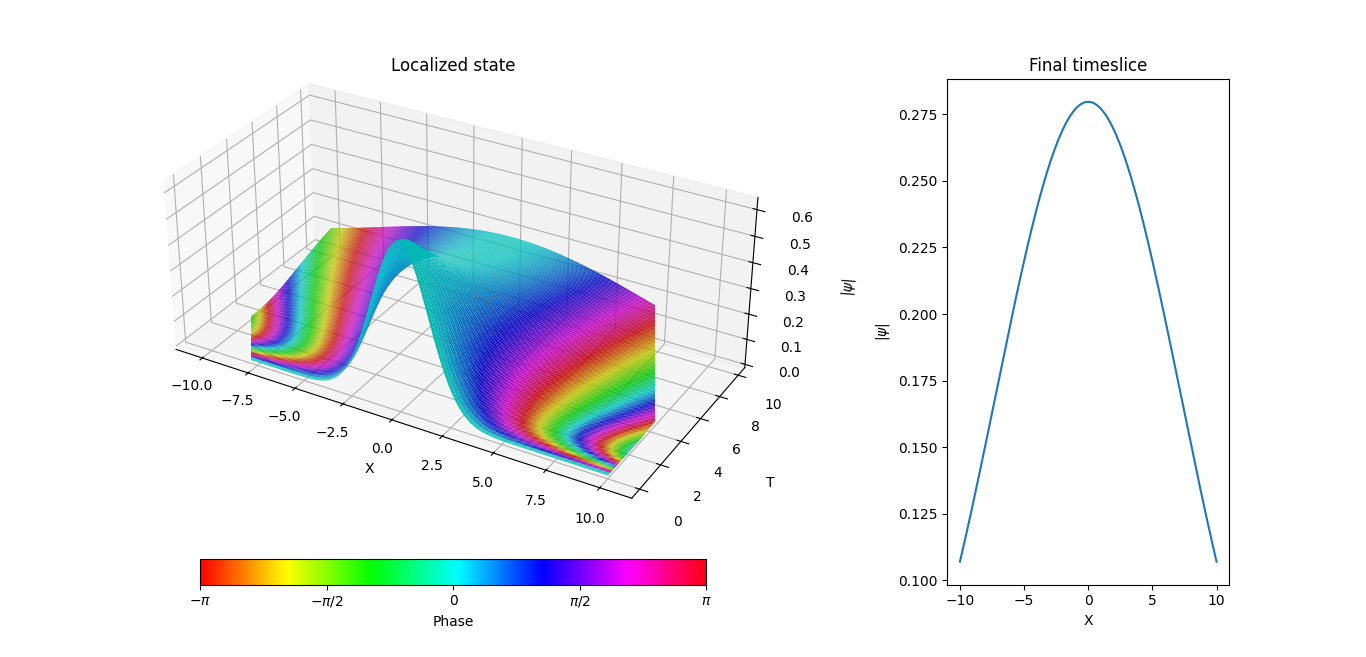
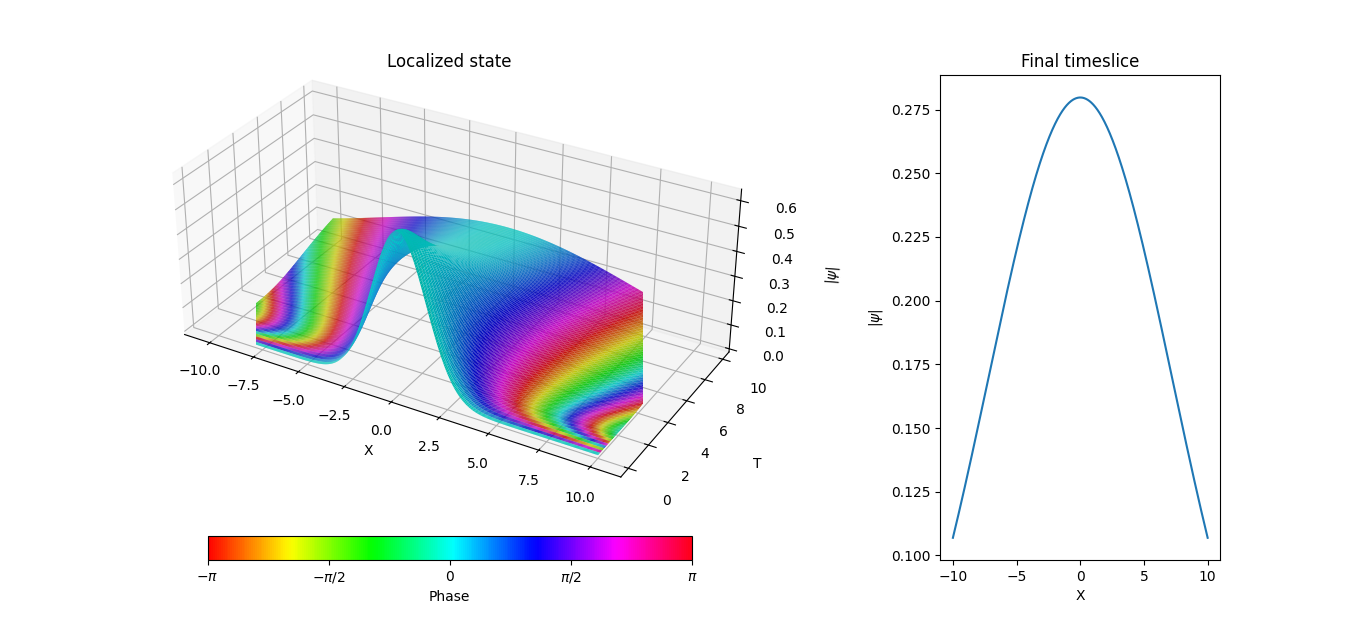
Changed parameters and other stuff

diff --git a/plot_delta.py b/plot_delta.py
@@ -1,28 +1,29 @@
 import numpy as np
 import matplotlib.pyplot as plt
 
-m = 10
-d = 1
+m = 1
+d = 5
 
 t_samples = 1000
-t = np.linspace(0.1, 10, t_samples)
-k = np.linspace(10, 20, 5)
+t = np.linspace(0.1, 3, t_samples)
+k = np.linspace(0.1, 2, 4)
 
 print('angle between first maxima and center = ' + str(((2*np.pi)/(k*d))))
+print(np.abs((((2*np.pi)/(k*d)+1)%2)-1))
 
 def delta_S(t, k):
     v_g = k/m
     omega = k**2/(2*m)
     
-    #return ((2*np.pi)/(m*d))*t
-    return np.tan(np.arcsin((2*np.pi)/(k*d)))*v_g*t
+    return ((2*np.pi)/(m*d))*t
+    #return np.tan(np.arcsin(np.abs((((2*np.pi)/(k*d)+1)%2)-1)))*v_g*t
 
 def delta_KG(t, k):
     omega = np.sqrt(k**2 + m**2)
     v_g = k/omega
     
-    return np.tan(np.arcsin((2*np.pi)/(k*d)))*v_g*t
-    #return ((2*np.pi)/d)*(t/omega)
+    #return np.tan(np.arcsin(np.abs((((2*np.pi)/(k*d)+1)%2)-1)))*v_g*t
+    return ((2*np.pi)/d)*(t/omega)
 
 def delta_Q(t, k):
     #q-metric dispersion relation
@@ -35,8 +36,8 @@ def delta_Q(t, k):
     squareroot = np.emath.sqrt(-g**2 + 4*T_squared**(-1)*(T_squared**(-1)*k**2 + m**2))
     v_g = (2*T_squared**(-2)*k)/squareroot
     
-    #return ((4*np.pi)/d)*((T_squared**(-2))/(squareroot))*t
-    return np.tan(np.arcsin((2*np.pi)/(k*d)))*v_g*t
+    return ((4*np.pi)/d)*((T_squared**(-2))/(squareroot))*t
+    #return np.tan(np.arcsin(np.abs((((2*np.pi)/(k*d)+1)%2)-1)))*v_g*t
 
 def delta_Q_lowk(t, k):
     dim = 4
@@ -48,28 +49,28 @@ def delta_Q_lowk(t, k):
     squareroot = np.emath.sqrt(-g**2 + 4*T_squared**(-1)*m**2)
     v_g = (2*T_squared**(-2)*k)/squareroot
     
-    #return (4*np.pi*T_squared**(-2)*t)/(d*squareroot)
-    return np.tan(np.arcsin((2*np.pi)/(k*d)))*v_g*t
+    return (4*np.pi*T_squared**(-2)*t)/(d*squareroot)
+    #return np.tan(np.arcsin(np.abs((((2*np.pi)/(k*d)+1)%2)-1)))*v_g*t
 
-fig, axs = plt.subplots(4)
+fig, axs = plt.subplots(2)
 fig.suptitle('Fringe maxima separations')
-axs[0].set_title('Schr.', rotation='vertical', x=-0.07, y=0)
-axs[1].set_title('low k Q', rotation='vertical', x=-0.07, y=0)
-axs[2].set_title('KG', rotation='vertical', x=-0.07, y=0)
-axs[3].set_title('Q', rotation='vertical', x=-0.07, y=0)
+#axs[0].set_title('Schr.', rotation='vertical', x=-0.07, y=0)
+#axs[1].set_title('low k Q', rotation='vertical', x=-0.07, y=0)
+axs[0].set_title('KG', rotation='vertical', x=-0.07, y=0)
+axs[1].set_title('Q', rotation='vertical', x=-0.07, y=0)
 
 for ks in k:
-    delta_S_values = [delta_S(time, ks) for time in t]
-    axs[0].plot(t, delta_S_values)
+    #delta_S_values = [delta_S(time, ks) for time in t]
+    #axs[0].plot(t, delta_S_values)
 
-    delta_Q_values = [delta_Q_lowk(time, ks) for time in t]
-    axs[1].plot(t, np.real(delta_Q_values))
+    #delta_Q_values = [delta_Q_lowk(time, ks) for time in t]
+    #axs[1].plot(t, np.real(delta_Q_values))
 
     delta_KG_values = [delta_KG(time, ks) for time in t]
-    axs[2].plot(t, delta_KG_values, label='k=%.2f'%ks)
+    axs[0].plot(t, delta_KG_values, label='k=%.2f'%ks)
 
     delta_Q_values = [delta_Q(time, ks) for time in t]
-    axs[3].plot(t, np.real(delta_Q_values))
+    axs[1].plot(t, np.real(delta_Q_values))
 
-axs[2].legend()
+axs[0].legend()
 plt.show()

diff --git a/FT_deloc_alltrapz.py b/FT_deloc_alltrapz.py
@@ -13,22 +13,22 @@ def complex_trapz(func):
     return real_integral + 1j*imag_integral
 
 #Type of dispersion relation tu use for time evolution
-DR = 'Q'
+DR = 'SCHQ'
 
 #Width of initial state gaussian
 a = 1
 #mass
-m = 10
+m = 1
 #measurement induced phase, loosely corresponds to the speed of ricombination IMPORTANT!
-phi_m = -4
+phi_m = -2
 #time of flight before delocalization
-t_flight1 = 1
+t_flight1 = 10
 #Energy of initial state
 E=1/(2*m*a**2)
 #phase accumulated during first localized evolution
 phi_1 = E*t_flight1/4
 #ratio of sigma/sigma_d
-ratio = 10
+ratio = 50
 #width at end of first flight
 sigma_squared = a**2*(1+(E*t_flight1)**2)
 #half distance between slits, we set it to half the width of the initial packets, hence the distance is equal to the width of the packets
@@ -84,7 +84,7 @@ def IFT_evo(ftrans, k, x_values, t):
         xi = (L_0/gl)**2
         T_squared = 1 + xi
         g = -dim*T_squared**(-1)*(L_0**2/gl**3)
-        omega = (T_squared**(-2)/(np.emath.sqrt(-g**2+4*T_squared**(-1)*m**2)))*k**2
+        omega = 0.5*(-1j*g + np.emath.sqrt(-g**2+4*T_squared**(-1)*m**2)) + (T_squared**(-2)/(np.emath.sqrt(-g**2+4*T_squared**(-1)*m**2)))*k**2
 
     ift = []
     for x in x_values:
@@ -98,8 +98,8 @@ def IFT_evo(ftrans, k, x_values, t):
 #number of points for integration and plotting
 samples = 10000
 #extent of integration and plotting, enlarge if ripple effects due to boundaries arise
-k_extent = 50
-x_extent = 4
+k_extent = 30
+x_extent = 5
 
 x = np.linspace(-x_extent, x_extent, samples)
 k = np.linspace(-k_extent, k_extent, samples)
@@ -111,16 +111,18 @@ IS = [integrand(pos) for pos in x]
 psi_k = FT(x, k)
 
 #Define plot, plot FT
-fig0, ax0 = plt.subplots()
-fig1, ax1 = plt.subplots()
+fig1, ax1 = plt.subplots(1,2)
 fig2, ax2 = plt.subplots()
 
-ax0.plot(x, np.abs(IS))
+ax1[0].plot(x, np.abs(IS))
+ax1[0].set_title('Position space')
+ax1[0].set_xlabel('x')
+ax1[0].set_ylabel('$\psi (x)$')
 
-ax1.plot(k, np.abs(psi_k))
-ax1.set_title('Momentum space')
-ax1.set_xlabel('k')
-ax1.set_ylabel('$\psi (k)$')
+ax1[1].plot(k, np.abs(psi_k))
+ax1[1].set_title('Momentum space')
+ax1[1].set_xlabel('k')
+ax1[1].set_ylabel('$\psi (k)$')
 
 #Time of flight after delocalization
 t_flight2 = 1.5

diff --git a/plot_q_dispersion_relation.py b/plot_q_dispersion_relation.py
@@ -1,11 +1,11 @@
 import numpy as np
 import matplotlib.pyplot as plt
 
-m = 10
+m = 1
 
 eps=0.001
 t_few = np.linspace(eps, 2, 5)
-t_many = np.linspace(0.15, 6, 1000)
+t_many = np.linspace(0.15, 3, 10000)
 k = np.linspace(-100, 100, 10001)
 
 fig, (ax1, ax2) = plt.subplots(1, 2)
@@ -44,14 +44,14 @@ def Q_DR_lowk(t, k):
     T_squared = 1 + xi
     g = -dim*T_squared**(-1)*(L_0**2/gl**3)
     squareroot = np.emath.sqrt(-g**2 + 4*T_squared**(-1)*m**2)
-    omega = (T_squared**(-2)*k**2)/squareroot
+    omega = 0.5*(-1j*g + squareroot)+(T_squared**(-2)*k**2)/squareroot
     return omega
 
 for time in t_few:
     Q_omega_values_real = [np.real(Q_DR(time, momentum)) for momentum in k]
     ax1.plot(k, Q_omega_values_real, label='GL (time) = ''%.2f'''%time)
 
-Q_omega_values_imagpart = [np.imag(Q_DR(time, 1)) for time in t_many]
+Q_omega_values_imagpart = [np.imag(Q_DR(time, 10)) for time in t_many]
 ax2.plot(t_many, Q_omega_values_imagpart)
 ax2.set_title('Imaginary part of $\omega$')
 ax2.set_xlabel('$\sigma$')

diff --git a/delocalized_3D.py b/delocalized_3D.py
@@ -10,17 +10,17 @@ import time
 time_start = time.perf_counter()
 
 #mass of the object
-m=10
+m=1
 #size of the ground state of an harmonic oscillator
 a=1
 #measurement induced phase
-phi_m = -4
+phi_m = -2
 
 #values for position
 x = np.linspace(-4, 4, 1001)
 
 #time of flight before delocalization
-t_flight1 = 1
+t_flight1 = 10
 
 #time of flight of delocalized state before measurement
 t_flight2 = 1.5
@@ -32,7 +32,7 @@ E=1/(2*m*a**2)
 phi_1 = E*t_flight1/4
 print("The Wavepackets are moving towards eachother:" + str(phi_1+phi_m<0))
 #ratio of sigma/sigma_d
-ratio = 10
+ratio = 50
 #width at end of first flight
 sigma_squared = a**2*(1+(E*t_flight1)**2)
 #half distance between slits, we set it to half the width of the initial packets, hence the distance is equal to the width of the packets

diff --git a/FT_deloc_test.py b/FT_deloc_test.py
@@ -27,18 +27,18 @@ DR = 'Q'
 #Width of initial state gaussian
 a = 1
 #mass
-m = 100
+m = 1
 #measurement induced phase, loosely corresponds to the speed of ricombination IMPORTANT!
-phi_m = -50
+phi_m = -2
 #time of flight before delocalization
-t_flight1 = 500
+t_flight1 = 10
 
 #Energy of initial state
 E=1/(2*m*a**2)
 #phase accumulated during first localized evolution
 phi_1 = E*t_flight1/4
 #ratio of sigma/sigma_d
-ratio = 100
+ratio = 50
 #width at end of first flight
 sigma_squared = a**2*(1+(E*t_flight1)**2)
 #half distance between slits, we set it to half the width of the initial packets, hence the distance is equal to the width of the packets

diff --git a/localized_3D.py b/localized_3D.py
@@ -9,7 +9,7 @@ import time
 time_start = time.perf_counter()
 
 #mass of the object
-m=10
+m=1
 #size of the ground state of an harmonic oscillator
 a=1
 
@@ -34,7 +34,7 @@ def ES(x, t):
     return normalization_prefactor*main_exp
 
 #time of flight before delocalization
-t_flight1 = 50
+t_flight1 = 10
 time1 = np.linspace(0, t_flight1, 101)
 
 print("Width of wavepacket before double slit: {}".format(np.sqrt(a**2*(1+((1/(2*m*a**2))*t_flight1)**2))))

diff --git a/delocalized_ratio_sweep.py b/delocalized_ratio_sweep.py
@@ -26,7 +26,7 @@ for ratio in v:
     #time of flight before delocalization
     t_flight1 = 10
     #time of flight of delocalized state before measurement
-    t_flight2 = 1
+    t_flight2 = 1.5
     #Energy of HO GS
     E=1/(2*m*a**2)
     #phase accumulated during first localized evolution

diff --git a/plot_gamma_fuction.py b/plot_gamma_fuction.py
@@ -10,7 +10,6 @@ def g(t):
     gl = t
     xi = (L_0/gl)**2
     T_squared = 1 + xi
-    #g = (((dim-1)/gl)*(1-T_squared**(-2))-dim*T_squared**(-1)*(L_0**2/gl**3))
     g = -dim*T_squared**(-1)*(L_0**2/gl**3)
 
     return g
